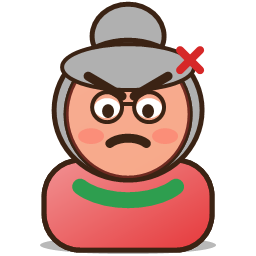
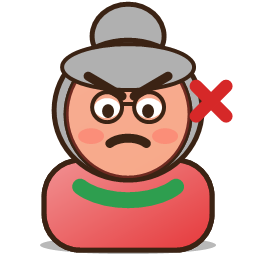
Q-06e: ks-bold замість FontStyle.Bold, помітніші жилка й піт на портретах

Changed region(s): [[0.6875, 0.1562, 0.9062, 0.5]]

diff --git a/Assets/_Project/Game/Views/MenuController.cs b/Assets/_Project/Game/Views/MenuController.cs
@@ -217,7 +217,7 @@ namespace KebabStreet.Game
             var amount = new Label(Context.Profile.Data.Coins.ToString());
             amount.style.color = UiColors.Coin;
             amount.style.fontSize = 46f;
-            amount.style.unityFontStyleAndWeight = FontStyle.Bold;
+            amount.AddToClassList("ks-bold");
             amount.style.marginLeft = 14f;
             amount.style.textShadow = Shadow(2f, 3f);
             coins.Add(amount);
@@ -304,7 +304,7 @@ namespace KebabStreet.Game
             node.Button.style.marginTop = 0f;
             node.Button.style.marginBottom = 0f;
             node.Button.style.fontSize = NodeFontSize;
-            node.Button.style.unityFontStyleAndWeight = FontStyle.Bold;
+            node.Button.AddToClassList("ks-bold");
             node.Button.style.unityTextAlign = TextAnchor.MiddleCenter;
             SetRadius(node.Button, LevelMapLayout.NodeSize * 0.5f);
             SetBorder(node.Button, NodeBorder, UiColors.Espresso);
@@ -710,7 +710,7 @@ namespace KebabStreet.Game
             var title = new Label(string.Format(text.Get(TextKeys.MenuLevel), number));
             title.style.fontSize = 56f;
             title.style.color = UiColors.Espresso;
-            title.style.unityFontStyleAndWeight = FontStyle.Bold;
+            title.AddToClassList("ks-bold");
             title.style.marginBottom = 18f;
             panel.Add(title);
 

diff --git a/Assets/_Project/Game/Views/FxLayer.cs b/Assets/_Project/Game/Views/FxLayer.cs
@@ -489,7 +489,7 @@ namespace KebabStreet.Game
                     if (text)
                     {
                         var label = new Label();
-                        label.style.unityFontStyleAndWeight = FontStyle.Bold;
+                        label.AddToClassList("ks-bold");
                         label.style.fontSize = TextFontSize;
                         label.style.unityTextAlign = TextAnchor.MiddleCenter;
                         label.style.textShadow = new TextShadow { offset = new Vector2(2f, 3f), blurRadius = 0f, color = new Color(0.1f, 0.06f, 0.03f) };

diff --git a/docs/tasks/Q-06e.md b/docs/tasks/Q-06e.md
@@ -13,3 +13,9 @@
 ## Журнал
 ### 2026-11-16 — Агент 0
 - Зроблено: картка зі зауважень QA PR #75/#73.
+
+### 2026-11-16 — ui-art-designer (Sonnet)
+- Зроблено: (1) усі 4 інлайн `FontStyle.Bold` (FxLayer 1, MenuController 3) замінено на клас `ks-bold` (Nunito-ExtraBold, `-unity-font-style: normal`, додано в kebab_theme.uss); розміри/кольори не змінено. (2) У `generate_placeholder_art.ps1` жилка гніву перенесена з-під кепки на правий бік біля обличчя (x196-226, y86-116, товщина 8->13), крапля поту більша (~40x54 px) з обводкою 4->8, винесена за межі голови, щоб кепка/волосся не перекривали. Перегенеровано 6 PNG (chr_olya/marko/hanna _worried/_angry), переглянуто marko_angry і olya_worried: символи видно. (3) Реєстр: нових файлів немає, ліцензія без змін (Original). ClientFacesTests і пороги не чіпали (геометрія значків не змінювалась).
+- Стан: гілка task/Q-06e-polish; тести локально не запускались (Unity нема), CI — див. нижче.
+- Наступний крок: QA; L3 на телефоні.
+- Увага: жилка тепер частково поза силуетом голови; на слоті 96 px — лише L3.
